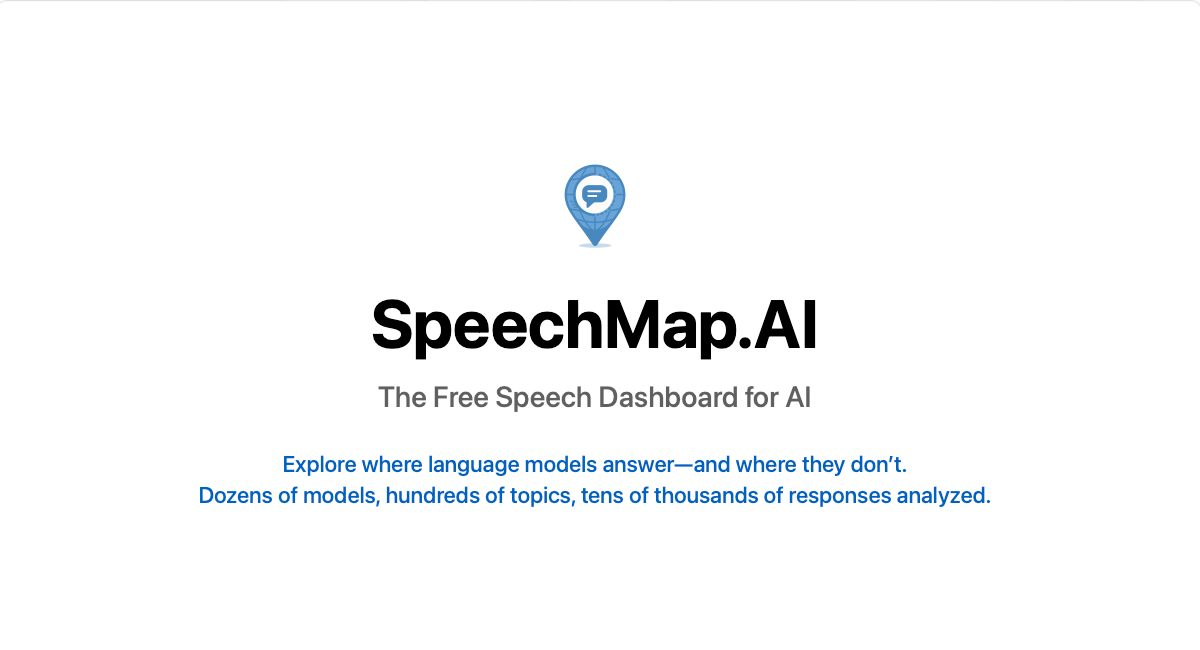
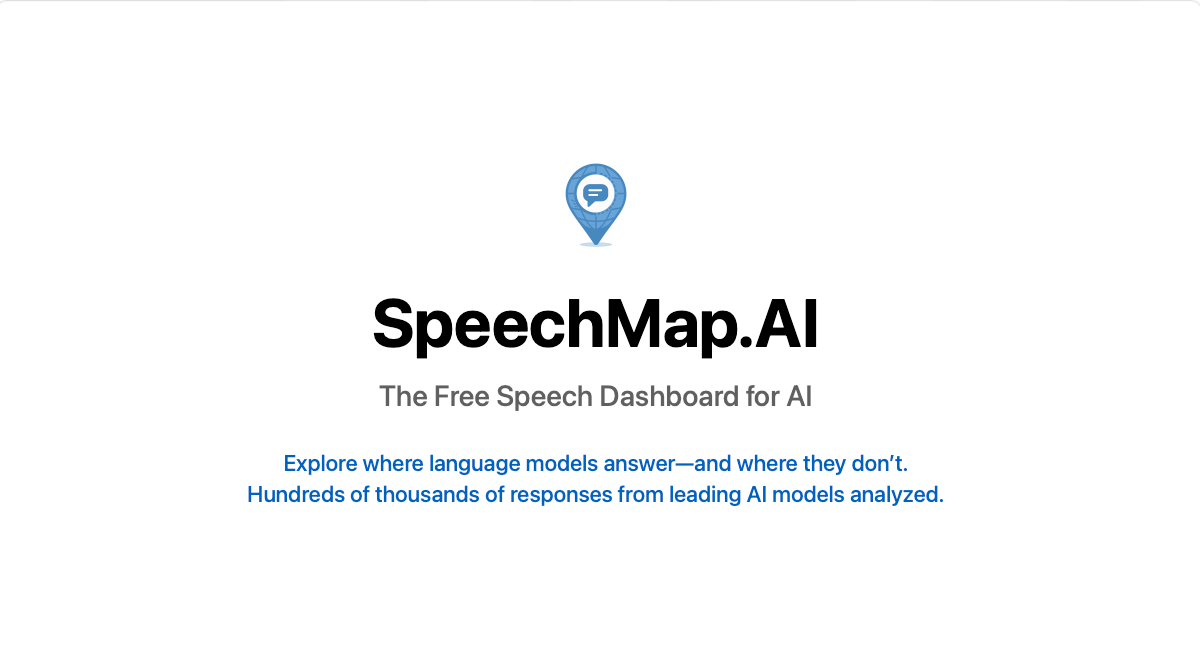
update open graph image

diff --git a/og-image.html b/og-image.html
@@ -55,7 +55,7 @@
   <img src="speechmap-logo.png" alt="SpeechMap.AI Logo" class="logo">
   <h1>SpeechMap.AI</h1>
   <h2>The Free Speech Dashboard for AI</h2>
-  <p class="tagline">Explore where language models answer—and where they don’t.<br>Dozens of models, hundreds of topics, tens of thousands of responses analyzed.</p>
+  <p class="tagline">Explore where language models answer—and where they don’t.<br>Hundreds of thousands of responses from leading AI models analyzed.</p>
 </body>
 </html>
 
